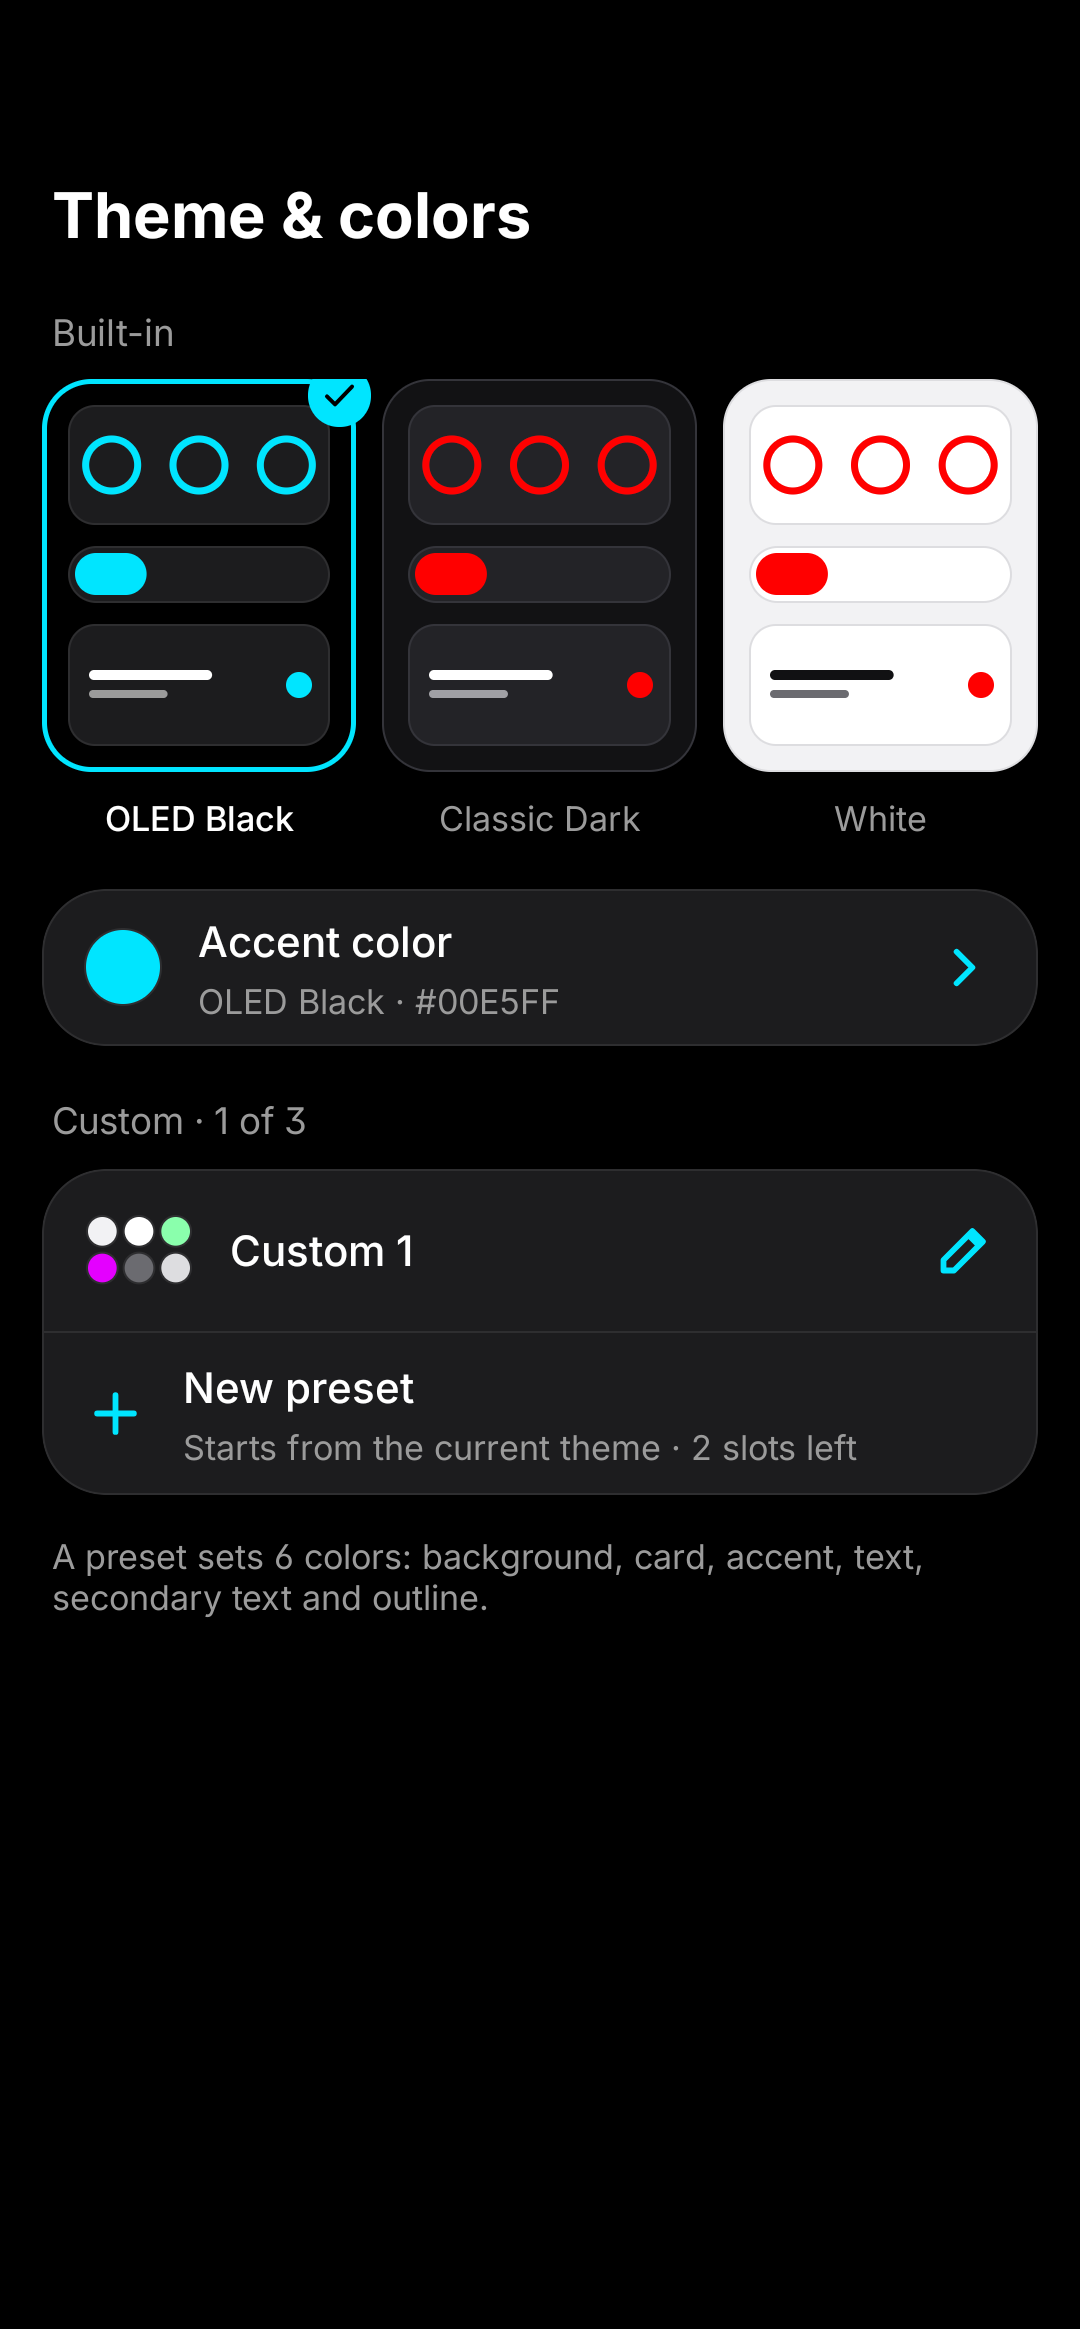
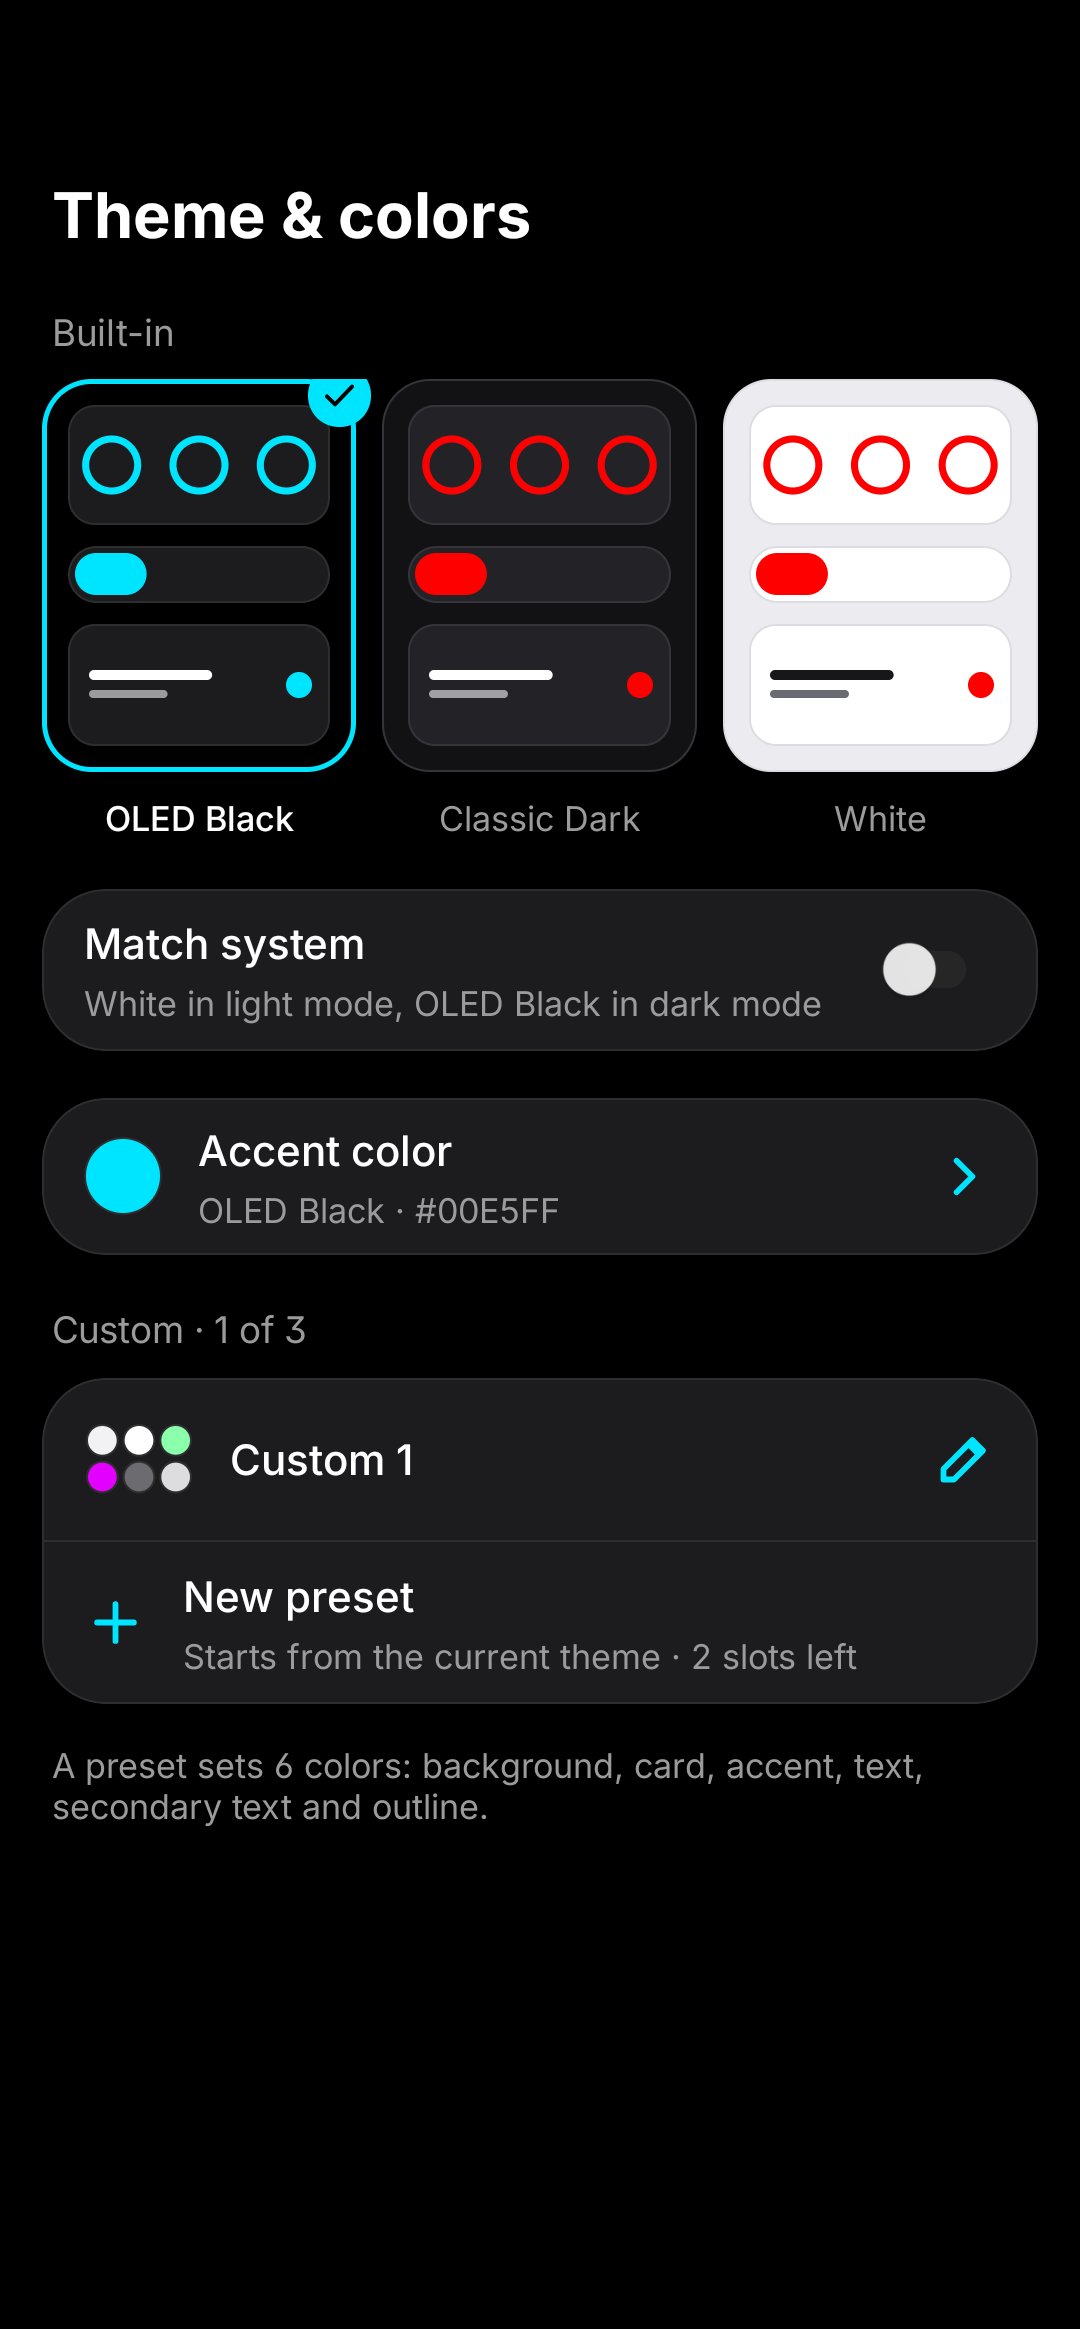
3.4.0: Match system, new White, firmware version, retaken screenshots

Changed region(s): [[0.0306, 0.4019, 0.9778, 0.8038], [0.825, 0.4019, 0.9167, 0.4328]]

diff --git a/README.md b/README.md
@@ -49,11 +49,12 @@ Every size has a battery page and a controls page; switch with the swap button o
   Saved on the earbuds.
 - **High-quality audio (LHDC), 3D audio and Low latency mode.**
 - **Gestures** per bud: taps, slide and hold, plus the on-call gestures.
-- **Wear detection**, **Dual connection**, **Find my earbuds** and the earbuds' prompt volume.
+- **Wear detection**, **Dual connection**, **Find my earbuds**, the earbuds' prompt volume and their
+  firmware version.
 - **Home-screen widgets** in three sizes (2×2, 3×3, 4×2). Each has a battery page and a noise
   control + Low latency page, in your theme's colours.
-- **Themes:** OLED Black, Classic Dark and White, your own accent colour, and up to 3 custom colour
-  presets. Reorder or hide the home screen rows.
+- **Themes:** OLED Black, Classic Dark and White, or match the system's light / dark setting. Your own
+  accent colour and up to 3 custom colour presets. Reorder or hide the home screen rows.
 - **27 languages**, switchable inside the app.
 - **Update check** from inside the app, straight from GitHub releases.
 

diff --git a/CLAUDE.md b/CLAUDE.md
@@ -186,7 +186,7 @@ v1.1.0 was signed with a different key, so moving from 1.1.0 to 2.0.0 also needs
 ### Versioning — `build.gradle.kts` defaultConfig is the single source
 
 `versionCode` / `versionName` are set **only** in `app/build.gradle.kts` `defaultConfig`.
-**Current: versionCode 8 / versionName 3.3.0.**
+**Current: versionCode 9 / versionName 3.4.0.**
 
 They used to be on `<application>` in the manifest. **Android ignores them there**, so every PC build
 up to 2026-09-23 shipped with no version at all (`aapt2 dump badging` showed `versionCode=''`),
